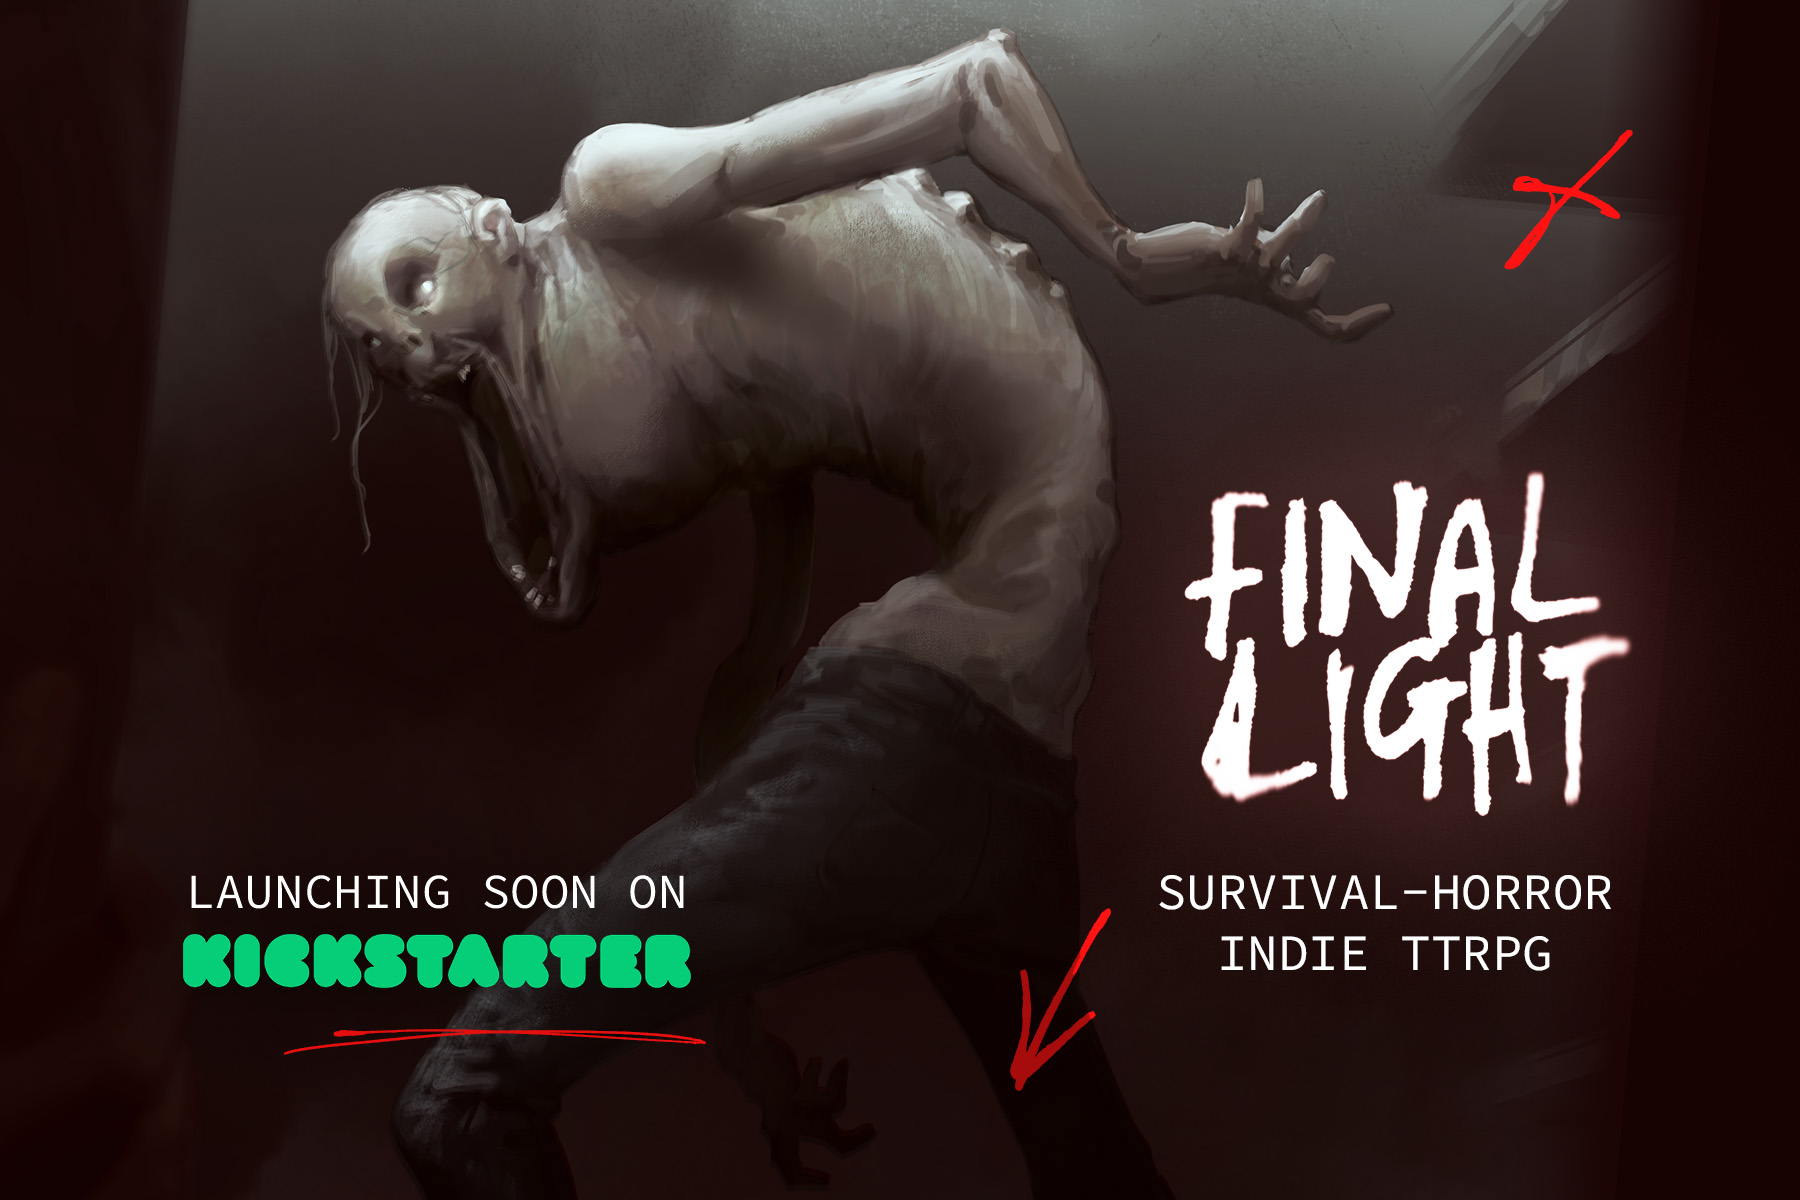
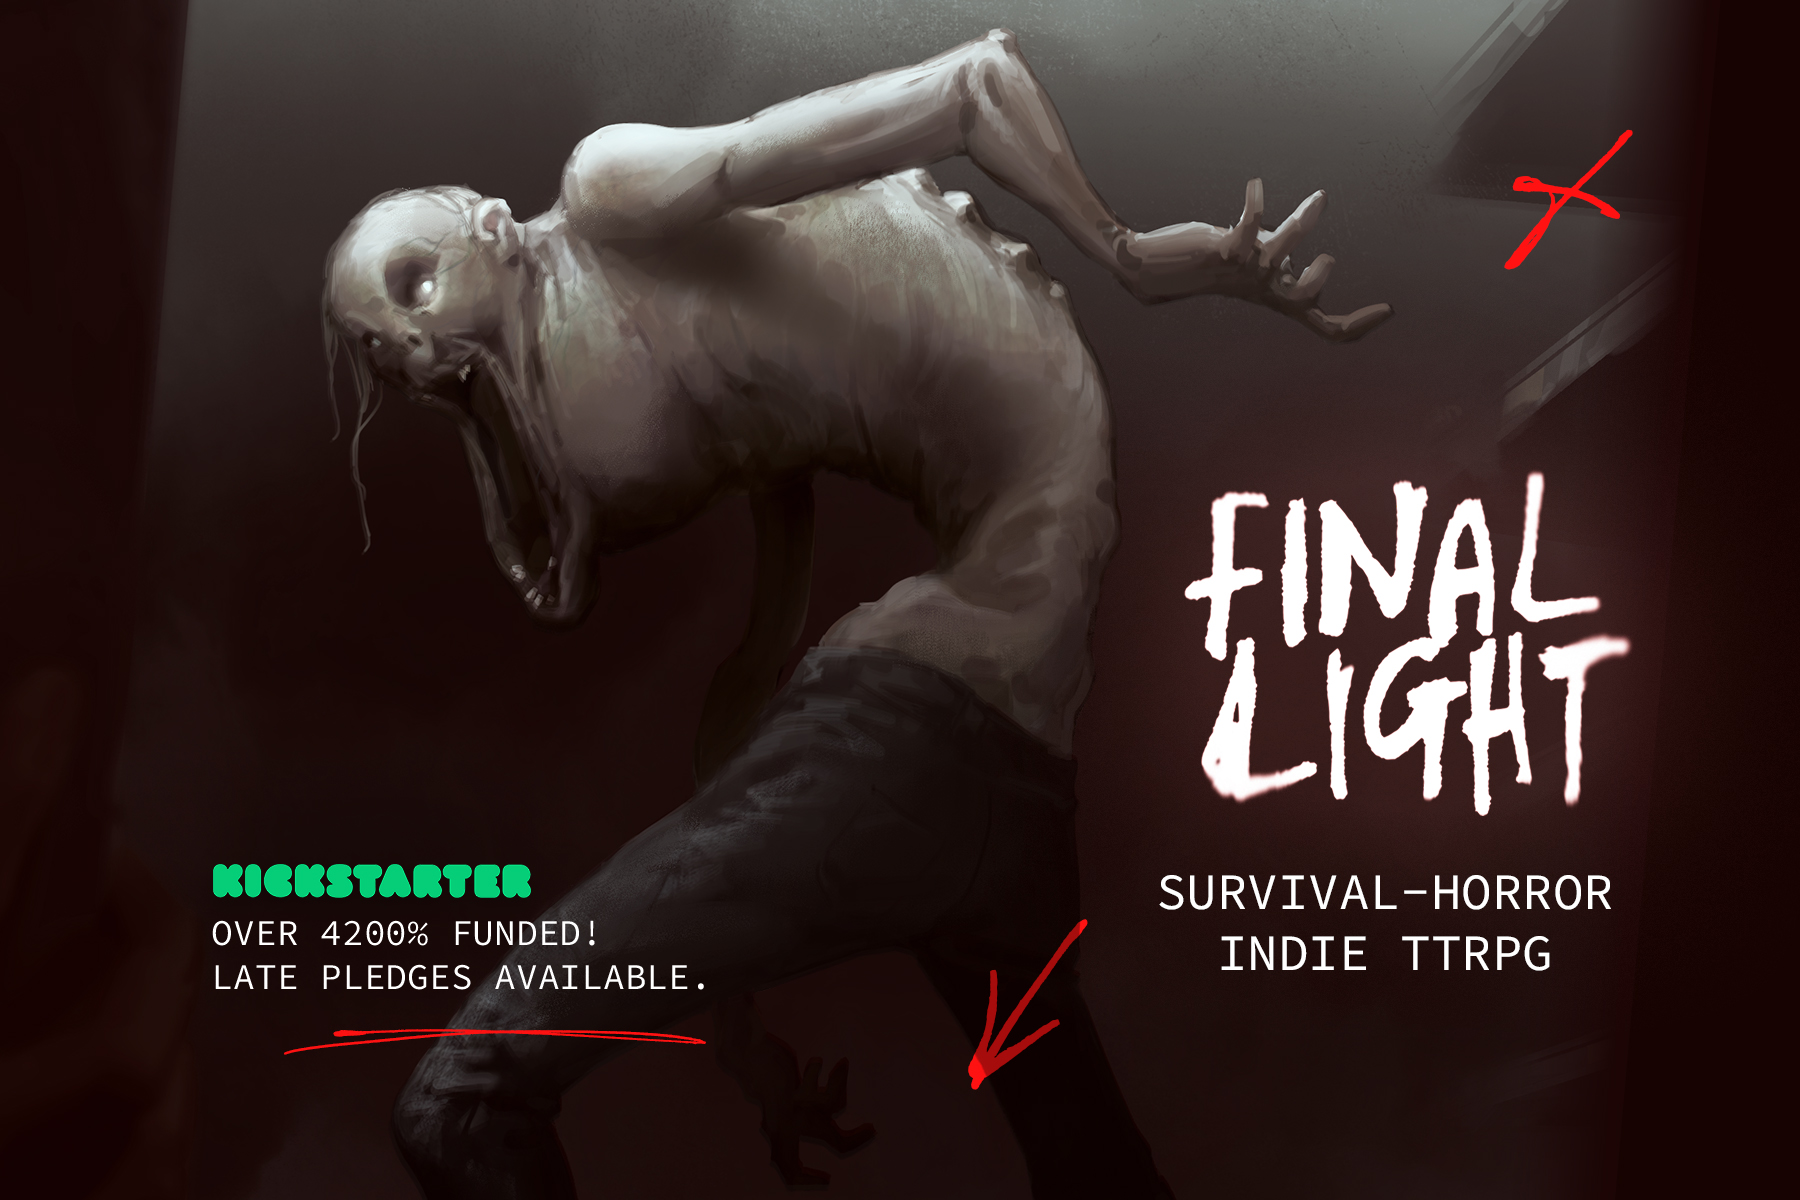
Add Final Light project page; switch site to late-pledge messaging
The Kickstarter campaign has finished funding, so the homepage and the
new project page now point at late pledges rather than an active or
upcoming campaign.

- Add projects/final-light-ttrpg.md, a full project page for the game,
  linking back to the prelaunch announcement post.
- Update the homepage feature to late-pledge copy and swap in the
  4200% funded artwork.
- Add TikTok alongside Instagram in the hero.

Also fixes a build break. The three Kickstarter images are the same
artwork with different overlay text, and the prelaunch .png the
announcement post referenced was deleted while the generic .jpg was
overwritten with the new late-pledge art. Because the image shortcode
stats its source at build time, the missing file failed the whole
build rather than one page. The prelaunch art is restored from git as
final-light-on-kickstarter-prelaunch.jpg (the JPEG, a fifth the size
of the PNG for identical pixels) and the post now names it, so the
announcement keeps its "launching soon" art.

Changed region(s): [[0.0933, 0.7092, 0.4044, 0.8325], [0.5289, 0.74, 0.6222, 0.925]]

diff --git a/projects/final-light-ttrpg.md b/projects/final-light-ttrpg.md
@@ -1,0 +1,64 @@
+---
+title: Final Light - A Zombie Survival Story TTRPG
+description: A survival-horror TTRPG for telling short, high-stakes zombie stories like The Last of Us, Train to Busan, 28 Days Later, and more.
+date: 2026-08-31
+layout: post.njk
+tags: [project, ttrpg, full-game]
+---
+
+<p class="lead">Scavenge, stealth, and escape your way through a world of undead and hold on to whatever keeps you human.</p>
+
+{% image "./assets/post-images/final-light/final-light-on-kickstarter.jpg", "Final Light TTRPG with zombie and Kickstarter note" %}
+
+[++ Back Final Light on Kickstarter](https://www.kickstarter.com/projects/heysarahbrown/final-light-a-cinematic-short-form-survival-ttrpg?ref=72yvgd )
+
+*The campaign funded well past its goal. Late pledges open now.*
+
+
+---
+
+
+Final Light is a short-form survival RPG set after the world has fallen apart. **You are not heroes trying to fix it. You are survivors trying to get through it.**
+
+The rules are familiar but rebuilt for tension: backgrounds that create emotional storytelling, an inventory that forces hard choices, and an adrenaline-fuelled encounter system designed around escape... hopefully.
+
+## Who this game is for
+
+Final Light is for groups who want tense, nerve-wracking survival over heroic power fantasy:
+- Fast encounters that burn through inventory, not 263 hit points
+- Roleplay that matters mechanically
+- Short campaigns with emotional weight
+
+This isn't a game about mowing down enemies or levelling up. It's a game where tables lean into the humanity of horror, reaching for the will to survive, and wondering who will make it to the end of the story together.
+
+## Inside the Core Book — hardback & PDF
+- The complete rule set — fast to learn, built for tension. 
+- Scavenging & Crafting mechanics and recipes - creative inventory rules that force hard choices about what you carry.
+- Epic Items Compendium — 40 tools and weapons that *can't* be made, and *might* be found. Most definitely O.P.
+- The Evolved Compendium — a bestiary of mutated horrors (10 zombie bosses).
+- Unique Personal Stakes — instead of "classes", the driving force for every player character is Personal Stakes: a secret character burden/challenge that has its own unique mechanics to drive roleplay at the table.
+- Local Anaesthetic - a single-session learn-as-you-play encounter 
+
+{% image "./assets/post-images/final-light/final-light-books.jpg", "Final Light TTRPG Core Book, adventure zines, maps, character sheets, and digital tokens" %}
+
+## Four adventure zines
+The apocalypse comes to places you know. Every adventure is set in a real place, reimagined after the fall—the movie-apocalypse fantasy of "what would it be like here?" Four zines (one unlocked as a stretch goal!), 3–5 sessions each, ready to run standalone or linked into one campaign.
+
+**Terminal Departure** *— Kansas City, USA.* Planes, trains, and automobiles. A mid-America transportation hub is now the front line of a faction war. You hold precious cargo and must get it out, through the dead and the living.
+
+**Maid of the Mist** *— Niagara Falls, Canada.* Winter is coming, and the hydro grid the settlement's medical center relies on has gone down. What went wrong? You'll have to travel to New Falls to find out... and you'll find far more than you bargained for.
+
+**No Place Like Home** *— Jasper National Park, Canada.* Far from the cities, far from the people, there might be somewhere safe. But deep in the Rockies the world has changed too. Will you find what you're looking for—or will something else find you?
+
+**The Walls Around Us** *— Castillo de Ponferrada, Spain* 
+An old Templar castle, and the faction that turned it into the last safe place for miles. Getting inside requires rigorous search and vetting... but that might be the easy part. These walls keep a lot of things in.
+
+## 100% human-made
+
+Every page, every word, every sketch, designed by real people (not zombies). From first concept to final layout, no A.I. generated content anywhere in the book.
+
+[++ Back Final Light on Kickstarter](https://www.kickstarter.com/projects/heysarahbrown/final-light-a-cinematic-short-form-survival-ttrpg?ref=72yvgd )
+
+---
+
+I share some [personal ramblings about Final Light](/posts/final-light-is-on-Kickstarter/) in a post I made while it was still in pre-launch. If you're curious, check it out!

diff --git a/posts/final-light-is-on-Kickstarter.md b/posts/final-light-is-on-Kickstarter.md
@@ -5,7 +5,7 @@ description: I'm releasing Final Light, a new TTRPG for telling emotionally inte
 layout: post.njk
 ---
 
-{% image "./assets/post-images/final-light/final-light-on-kickstarter.png", "Final Light on Kickstarter" %}
+{% image "./assets/post-images/final-light/final-light-on-kickstarter-prelaunch.jpg", "Final Light on Kickstarter" %}
 
 I never really got over the videogame *The Last of Us*. The tension, the high stakes, and the way humans respond to horrifying world events—sometimes reaching for the light, sometimes becoming monsters themselves, sometimes both. Stories like that stick with you! And telling a story like that together, as a table, is something I've wanted to do for a long time.
 
